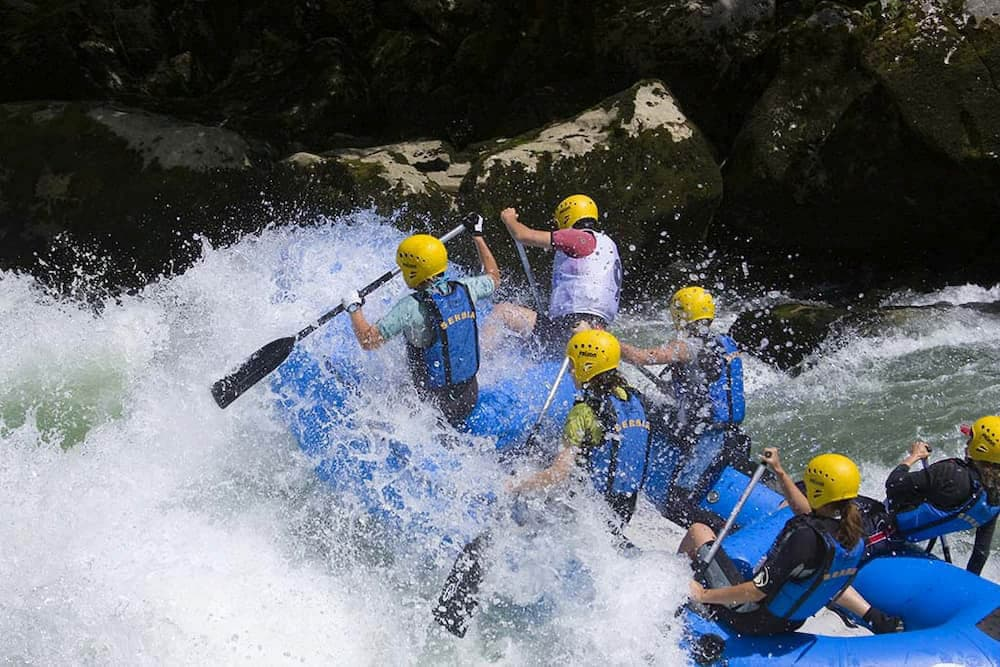
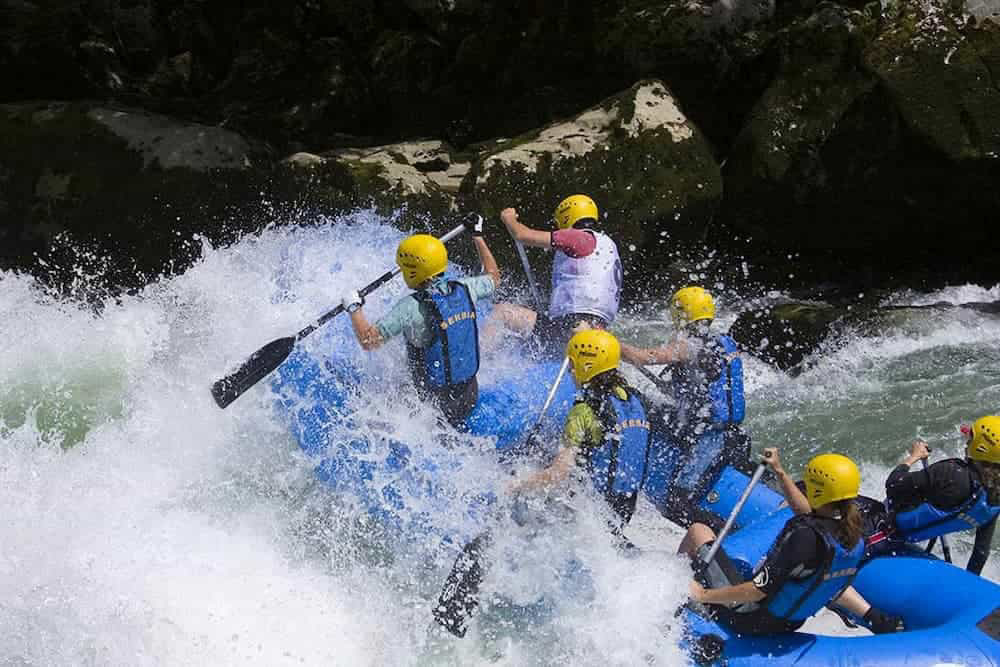
reduce size

diff --git a/wwr/about.html b/wwr/about.html
@@ -27,7 +27,7 @@
 
     <main>
         <div class="hero">
-            <img src="images/hero-img-2.jpg" alt="Big rapids while white water rafting">
+            <img src="images/hero-img-3.jpg" alt="Big rapids while white water rafting">
             <h1>Kern River White Water Adventures</h1>
             <article>
                 <img src="images/happy-client.jpg" alt="Happy client rafting down river">
@@ -44,7 +44,7 @@
                 Kern River White Water Adventures began with a passion for river rafting and helping
                 people experience the outdoors.
             </p>
-            <img src="images/history.jpg" alt="Rafting history">
+            <img src="images/history-1.jpg" alt="Rafting history">
             <p>We believe in adventure, teamwork, and creating memories that will last a lifetime.
             </p>
         </section>
@@ -64,7 +64,7 @@
                 <figcaption>Class 3 rapids</figcaption>
             </figure>
             <figure>
-                <img src="images/rafting4.jpg" alt="Floating a calm portion of the river">
+                <img src="images/rafting-4.jpg" alt="Floating a calm portion of the river">
                 <figcaption>Floating the river</figcaption>
             </figure>
             <figure>
